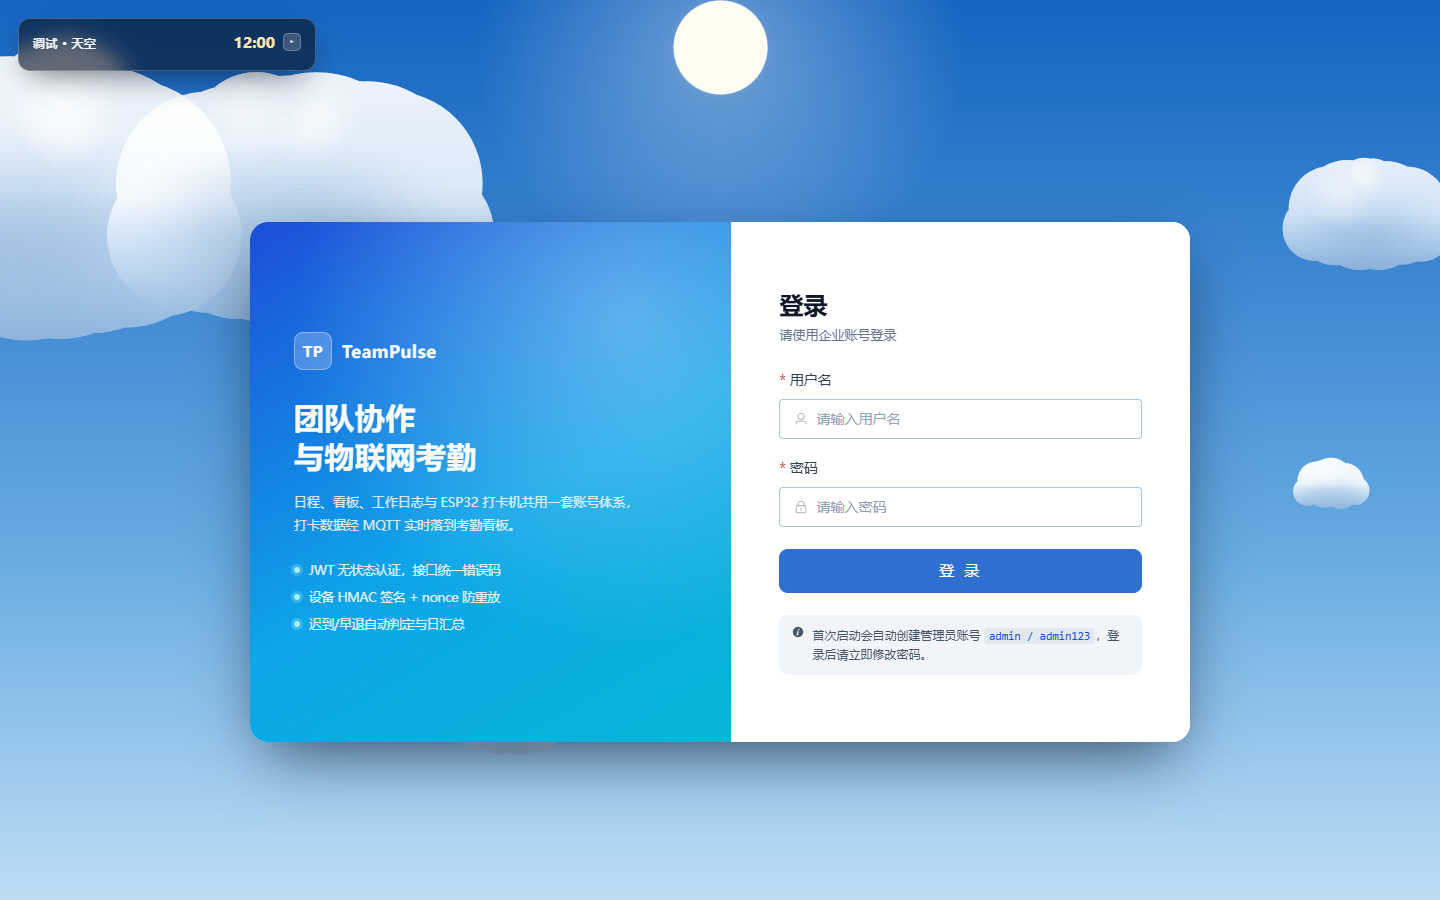
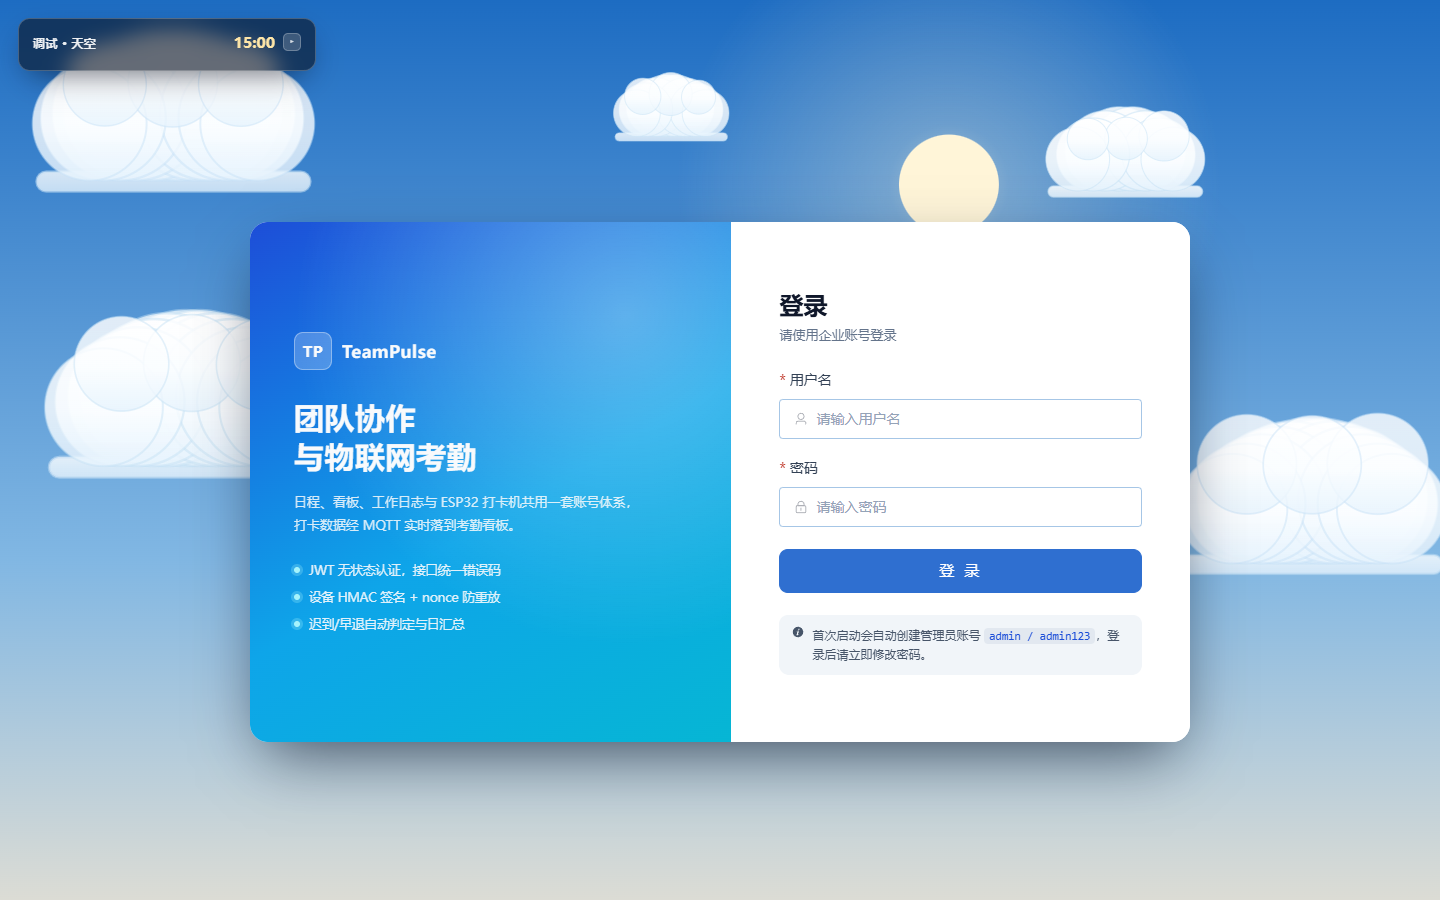
feat(login): 云改为「矢量泡泡」风格（参考图），并按可见区域布点
## 画法（参考图的关键：实心白 + 交界处一条淡蓝弧）
- 每个圆独立填充：竖向渐变（上纯白 → 下 #e6f3fd）
- 每个圆再描一圈淡蓝边 rgba(196,224,245,0.55)，线宽随半径
- **先画平底的薄胶囊**，再按半径从大到小叠泡泡——后画的实心圆盖住前面的描边，
  只在交界处留下淡蓝弧线，这才是参考图的观感（上一版逐圆半透明叠加，像 X 光）
- 平底用一条圆角胶囊压平，形成水平底线

## 造型
- 三档尺度 22~34 / 42~70 / 78~124
- 底排 5/8/12 个圆（底边对齐）+ 顶部 2~3 个鼓包
- 叠距 1.55×base（比之前更密，减少"葡萄串"感）

## 布点（这次是重点修复）
之前云的位置全随机，经常整朵落在中间卡片后面，看起来"没有云"。
现在按可见区域分配：
    顶部带 50%（y 7%~20%）  左留白 25%（x 4%~14%）  右留白 25%（x 86%~96%）
并做互相避让（与已有云距离 < 230px 就重新取点，最多 8 次）。
实测：9:00 与 15:00 各 5 朵云，**5/5 都不在卡片区域内**。

## 验证
tests/ui/probe-cloud-placement.mjs + probe-sky4.mjs：云数量、可见度、是否被卡片遮挡
控制台无报错。

diff --git a/frontend/src/components/LoginSky.vue b/frontend/src/components/LoginSky.vue
@@ -117,41 +117,56 @@ function makeStar() {
  *   - 中排更大，顶排 2~3 个"鼓包"，做出顶部起伏
  *   - 每朵云尺度不同（22~150），小的做远景点缀
  */
-function makeCloud() {
-  // 云的尺度分三档，避免所有云一样大
-  const tier = Math.random()
-  const base = tier < 0.34 ? rand(22, 40) : tier < 0.74 ? rand(44, 78) : rand(84, 138)
-  const hx = rand(0, width)
-  // 主要分布在上半部与两侧，避开被中间卡片挡住的位置
-  const hy = rand(height * 0.05, height * 0.46)
+/** 在一处可见区域内取一个落点（顶部带 / 左留白 / 右留白） */
+function pickCloudSpot(region) {
+  if (region === 'left') {
+    return { x: rand(width * 0.04, width * 0.14), y: rand(height * 0.26, height * 0.76) }
+  }
+  if (region === 'right') {
+    return { x: rand(width * 0.86, width * 0.96), y: rand(height * 0.26, height * 0.76) }
+  }
+  return { x: rand(width * 0.1, width * 0.9), y: rand(height * 0.07, height * 0.2) }
+}
 
-  const n = tier < 0.34 ? 4 : tier < 0.74 ? 5 : 7
+function makeCloud(region = 'top', spot = null) {
+  const tier = Math.random()
+  const base = tier < 0.34 ? rand(22, 34) : tier < 0.74 ? rand(42, 70) : rand(78, 124)
+  const pos = spot ?? pickCloudSpot(region)
+  const hx = pos.x
+  const hy = pos.y
+
+  const cols = tier < 0.34 ? 5 : tier < 0.74 ? 8 : 12
   const puffs = []
-  for (let i = 0; i < n; i++) {
-    const t = i / (n - 1) - 0.5 // -0.5 .. 0.5
-    // 中间大、两侧小：这是积云最典型的轮廓
-    const k = 0.45 + 0.55 * Math.cos(t * Math.PI * 0.92)
-    const r = base * k
+  // 底排：底边对齐
+  for (let i = 0; i < cols; i++) {
+    const t = i / (cols - 1) - 0.5
+    const k = 0.45 + 0.55 * Math.cos(t * Math.PI * 0.95)
+    const r = base * (tier < 0.34 ? 0.52 + 0.3 * k : 0.36 + 0.34 * k)
     puffs.push({
-      dx: t * base * 2.05 + rand(-2, 2),
-      // 圆心高于基线，底边大致齐平
-      dy: -r * 0.5 + rand(-2, 2),
+      dx: t * base * 1.55 + rand(-1.5, 1.5), // 叠得密一些，减少"葡萄串"感
+      dy: -r,
       r,
-      // 每团云自己的透明度略有差别，叠起来才有体积感
-      a: rand(0.82, 1),
+      tone: rand(0.96, 1),
     })
+  }
+  // 顶部 2~3 个鼓包（中间高）
+  const tops = tier < 0.34 ? 2 : 3
+  for (let i = 0; i < tops; i++) {
+    const t = (i - (tops - 1) / 2) * 0.42
+    const r = base * rand(0.34, 0.5)
+    puffs.push({ dx: t * base * 1.5, dy: -base * 0.62 - r * 0.7, r, tone: 1 })
   }
 
   return {
     hx,
     hy,
-    rx: rand(70, 200),
-    ry: rand(24, 70),
+    rx: rand(60, 150),
+    ry: rand(20, 55),
     x: hx,
     y: hy,
-    vx: rand(-0.02, 0.02),
-    vy: rand(-0.008, 0.008),
-    alpha: rand(0.62, 0.88),
+    vx: rand(-0.015, 0.015),
+    vy: rand(-0.006, 0.006),
+    alpha: rand(0.86, 0.97),
     puffs,
   }
 }
@@ -162,8 +177,21 @@ function buildStars() {
 }
 
 function buildClouds() {
-  const n = Math.max(4, Math.min(7, Math.round(width / 340)))
-  clouds = Array.from({ length: n }, makeCloud)
+  const n = Math.max(5, Math.min(8, Math.round(width / 290)))
+  // 顶部带多放几朵，左右留白各一朵，保证卡片旁边也有云
+  const plan = ['top', 'top', 'left', 'right', 'top', 'left', 'right', 'top'].slice(0, n)
+
+  clouds = []
+  for (const region of plan) {
+    let spot = null
+    for (let tries = 0; tries < 8; tries++) {
+      const candidate = pickCloudSpot(region)
+      const tooClose = clouds.some((c) => Math.hypot(c.hx - candidate.x, c.hy - candidate.y) < 230)
+      spot = candidate
+      if (!tooClose) break
+    }
+    clouds.push(makeCloud(region, spot))
+  }
 }
 
 /* ------------------------------------------------------------------ 太阳与天色 */
@@ -570,54 +598,67 @@ function drawStars() {
  */
 function drawClouds() {
   if (cloudsVisible <= 0.01) return
-  const warm = clamp01((12 - sunAlt) / 14)
-  const warmColor = warm > 0.3 ? `rgba(255, 214, 170, ${warm * 0.35})` : null
 
   for (const c of clouds) {
     const a = c.alpha * cloudsVisible
-    if (a <= 0.01) continue
+    if (a <= 0.02) continue
 
+    let minX = Infinity
+    let maxX = -Infinity
+    let baseY = -Infinity
     for (const p of c.puffs) {
       const px = c.x + p.dx
       const py = c.y + p.dy
-      const pa = a * p.a
-      const core = p.r * 0.9
+      minX = Math.min(minX, px - p.r)
+      maxX = Math.max(maxX, px + p.r)
+      baseY = Math.max(baseY, py + p.r)
+    }
 
-      // ① 实心云泡：每个鼓包都是独立可辨的圆
-      ctx.globalAlpha = pa
-      ctx.fillStyle = '#ffffff'
-      ctx.beginPath()
-      ctx.arc(px, py, core, 0, Math.PI * 2)
-      ctx.fill()
-      ctx.globalAlpha = 1
+    // ① 先画平底（后面叠上的泡泡会把它的上沿盖掉，只剩一条水平底边）
+    const w = maxX - minX
+    const baseH = Math.max(8, w * 0.07)
+    const bx = minX + baseH * 0.2
+    const by = baseY - baseH * 0.45
+    const bw = Math.max(4, w - baseH * 0.4)
+    const rr = baseH / 2
 
-      // ② 柔边：只在最外圈淡出，轮廓保持清晰
-      const g = ctx.createRadialGradient(px, py, core * 0.78, px, py, p.r)
-      g.addColorStop(0, `rgba(255,255,255,${pa})`)
-      g.addColorStop(1, 'rgba(255,255,255,0)')
+    ctx.beginPath()
+    ctx.moveTo(bx + rr, by)
+    ctx.lineTo(bx + bw - rr, by)
+    ctx.arc(bx + bw - rr, by + rr, rr, -Math.PI / 2, Math.PI / 2)
+    ctx.lineTo(bx + rr, by + baseH)
+    ctx.arc(bx + rr, by + rr, rr, Math.PI / 2, -Math.PI / 2)
+    ctx.closePath()
+    const gb = ctx.createLinearGradient(0, by, 0, by + baseH)
+    gb.addColorStop(0, `rgba(252,254,255,${a})`)
+    gb.addColorStop(1, `rgba(228,242,253,${a})`)
+    ctx.fillStyle = gb
+    ctx.fill()
+    ctx.lineWidth = Math.max(1, baseH * 0.13)
+    ctx.strokeStyle = `rgba(190, 219, 242, ${0.7 * a})`
+    ctx.stroke()
+
+    // ② 再按半径从大到小叠泡泡：后画的实心圆会盖住前面的描边，
+    //    只在交界处留下淡淡的弧线——这才是参考图的观感
+    const puffs = [...c.puffs].sort((p, q) => q.r - p.r)
+    for (const p of puffs) {
+      const px = c.x + p.dx
+      const py = c.y + p.dy
+      const r = p.r
+
+      const g = ctx.createLinearGradient(px, py - r, px, py + r)
+      g.addColorStop(0, `rgba(255,255,255,${a})`)
+      g.addColorStop(0.55, `rgba(250,253,255,${a * p.tone})`)
+      g.addColorStop(1, `rgba(230,243,253,${a})`)
       ctx.fillStyle = g
       ctx.beginPath()
-      ctx.arc(px, py, p.r, 0, Math.PI * 2)
+      ctx.arc(px, py, r, 0, Math.PI * 2)
       ctx.fill()
 
-      // ③ 底部一点冷色，给云体积感
-      const gs = ctx.createRadialGradient(px, py + core * 0.5, 0, px, py + core * 0.1, core)
-      gs.addColorStop(0, `rgba(190, 210, 230, ${pa * 0.35})`)
-      gs.addColorStop(1, 'rgba(190, 210, 230, 0)')
-      ctx.fillStyle = gs
-      ctx.beginPath()
-      ctx.arc(px, py + core * 0.2, core, 0, Math.PI * 2)
-      ctx.fill()
-
-      if (warmColor) {
-        const gt = ctx.createRadialGradient(px, py + core * 0.6, 0, px, py, p.r)
-        gt.addColorStop(0, warmColor)
-        gt.addColorStop(1, 'rgba(255,214,170,0)')
-        ctx.fillStyle = gt
-        ctx.beginPath()
-        ctx.arc(px, py, p.r, 0, Math.PI * 2)
-        ctx.fill()
-      }
+      // 淡蓝交界弧：细一点、浅一点
+      ctx.lineWidth = Math.max(1, r * 0.035)
+      ctx.strokeStyle = `rgba(196, 224, 245, ${0.55 * a})`
+      ctx.stroke()
     }
   }
 }
